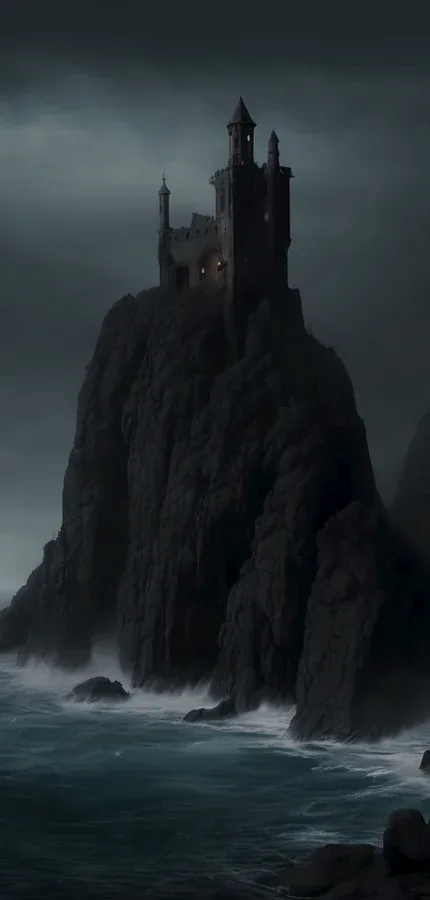
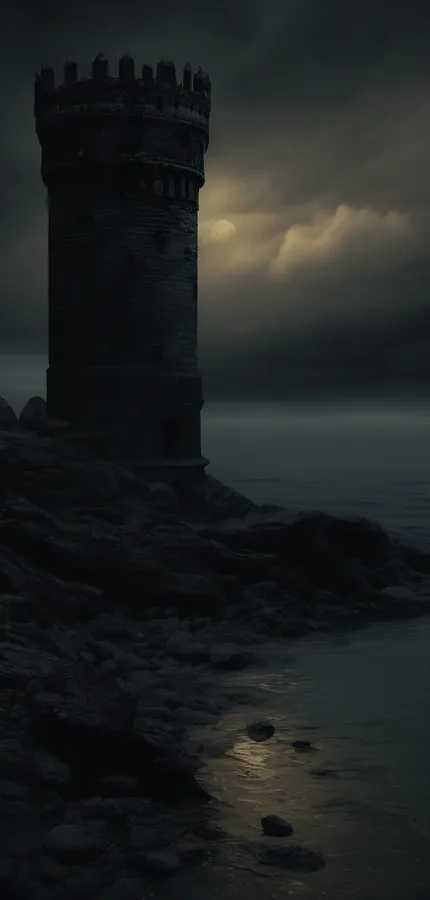
fix(art): 结局黎明其实是一张冷夜暴风——重出 dawn + 撤掉替它打掩护的白名单
dawn.webp 是结局（afterChoicePlain/True）玩家看到的最后一张图，实测暖光 0.00%，
而 bd-luma 的 COLD_ONLY 里写着「结局黎明：全作唯一一次白昼」——豁免理由与画面相反，
断言「每屏一盏暖光」对这张图从未生效。

- 重出：上 2/3 黑云、地平线只留一道金缝（满天橙云＝天亮，违反剪影语言；
  且暖光判据 r>140 必然计入亮部，与 lit<=16% 直接冲突）
- seed 20261101/factor 0.74 → meanL 33.8 / lit 3.56% / 暖光色相 39° / p05 10
- bd-luma 新增断言：白名单里的图确实全冷（理由没过期）→ 10 项变 11 项

diff --git a/tools/bd-luma.html b/tools/bd-luma.html
@@ -21,10 +21,13 @@ pre{white-space:pre-wrap}</style>
 (function () {
   const KEYS = ['gate', 'corridor', 'market', 'passage', 'wolfhall', 'throne', 'ridge', 'empty', 'bell', 'namewall', 'carve', 'roof', 'core', 'dawn'];
   // 允许没有暖光的场景（冷光是有意的叙事选择，不是漏画）
+  // 2026-11-25 焦点A 复核：这份名单是「理由 + 豁免」，资产换了没人核 → 假绿。
+  // dawn 原来写着「结局黎明：全作唯一一次白昼」，而当时的 dawn.webp 是一张冷夜暴风海崖（实测 warm 0.00%），
+  // 豁免理由与画面相反，把「结局没有暖光」这条真缺陷按住了整整一天。已重出资产、撤掉条目。
+  // 下面那条「白名单没过期」断言就是为这件事加的：挂在名单上的图必须真的全冷。
   const COLD_ONLY = {
-    throne: '王座厅：三扇高窗冷光 + 空王座前一只倒下的烛台（火已熄）',
+    throne: '王座厅：三扇高窗冷光，空王座前一只倒下的烛台（火已熄）',
     roof: '塔顶：天光，塔已经在云上',
-    dawn: '结局黎明：全作唯一一次白昼',
     empty: '空廊：唯一的光是尽头那扇窗，冷光——这一层的叙事就是「什么都没有」',
   };
   const W = 430, H = 900, STEP = 2, BW = 40;
@@ -176,6 +179,11 @@ pre{white-space:pre-wrap}</style>
     // 暖光：只有白名单允许「全冷」
     const noWarm = KEYS.filter((k) => !ms[k].err && ms[k].warm <= 0 && !COLD_ONLY[k]);
     rec('每屏一盏暖光（冷光场景须在白名单里）', noWarm.length === 0, noWarm.length ? '无暖光 ' + noWarm.join(',') : '白名单 ' + Object.keys(COLD_ONLY).join('/'));
+    // 2026-11-25 焦点A：白名单本身就是一条「派生说法」。挂在上面却明明有暖光的图 = 理由过期，
+    // 会让人以为那屏是刻意全冷。资产重出后必须回头核对名单。
+    const staleCold = Object.keys(COLD_ONLY).filter((k) => ms[k] && !ms[k].err && ms[k].warm > 0.1);
+    rec('白名单里的图确实全冷（理由没过期）', staleCold.length === 0,
+      staleCold.length ? '名单过期 ' + staleCold.map((k) => k + '(' + ms[k].warm.toFixed(2) + '%)').join(',') : '3 条全部命中');
     // 2026-11-25 焦点D：上面那条只问「有没有暖像素」，不问「是不是同一盏灯」。三条新断言：
     //   ① 暖光色相要落在黄铜族（#e8c46a = 43°，实测 30–44 → 钉 26–46）
     //   ② 一屏之内不许混两种灯色（色相四分位距，实测 0–14 → 钉 16）

diff --git a/tools/cg-gen.js b/tools/cg-gen.js
@@ -55,8 +55,12 @@ const SCENES = {
     + 'dark cold night sky with heavy cloud and no dawn glow, no distant tower, no building exterior',
   core: 'the hidden heart of a tower, a circular stone mechanism of concentric rings around a stone pedestal, '
     + 'cold blue light rising from below, four tall lock columns at the corners',
-  dawn: 'a black tower on a sea cliff at dawn seen from outside, a thin warm light in its doorway, '
-    + 'calm dark sea below, cold sky',
+  // 2026-11-25 重出：原提示词写「at dawn」却给了「cold sky」，SDXL 出成阴夜海崖（实测 warm 0.00%）。
+  // 第一版重出又给了满天橙云（raw meanL 80 / lit 37%）——「黎明」不等于「天亮」，本作仍是暗色剪影，
+  // 暖光只能是一条窄缝：天空被黑云吃掉上 2/3，光留在地平线一道。
+  dawn: 'almost entirely black sea and sky, a single thin horizontal slit of golden dawn light at the horizon, '
+    + 'heavy black storm clouds filling the top two thirds, a black tower silhouette rising against the faint glow, '
+    + 'calm black water with one thin reflection',
   // 序章四幕（2026-11-25 补）：人物一律做成逆光剪影，避免 AI 画脸
   intro1: 'a ruined throne room, a huge horned demon rendered as a pure black silhouette stands before the throne, '
     + 'holding a small woman silhouette by the arm, cold moonlight behind them, dark red carpet, embers in the air, '

diff --git a/PROGRESS.md b/PROGRESS.md
@@ -28,6 +28,7 @@
 ═══ 并行占用表（多会话必读 · 见手册【多会话并行协议】）═══
 | 会话 | 认领事项 | 时间 | 涉及文件 |
 |---|---|---|---|
+| 自动@19:10 | [执行中] 变体1 诊断（换视角跑一遍，只出结论） | 19:2x | PROGRESS.md |
 
 > **11:0x 观察（自动轮记，非认领）**：另一会话正在把 ComfyUI 出的 CG 接进游戏——`tools/cg-gen.js` + `tools/art-test/*.png` 是它新建的（未跟踪），
 > **11:07 它又改了 `css/style.css`(+13) 与 `js/backdrops.js`(+18)、11:08 还在写 `assets/cg/`，全部未提交**（本轮收尾时仍在进行中）。11:0x 那轮自动轮因此走谨慎模式（只改 `PROGRESS.md`、未部署）。
